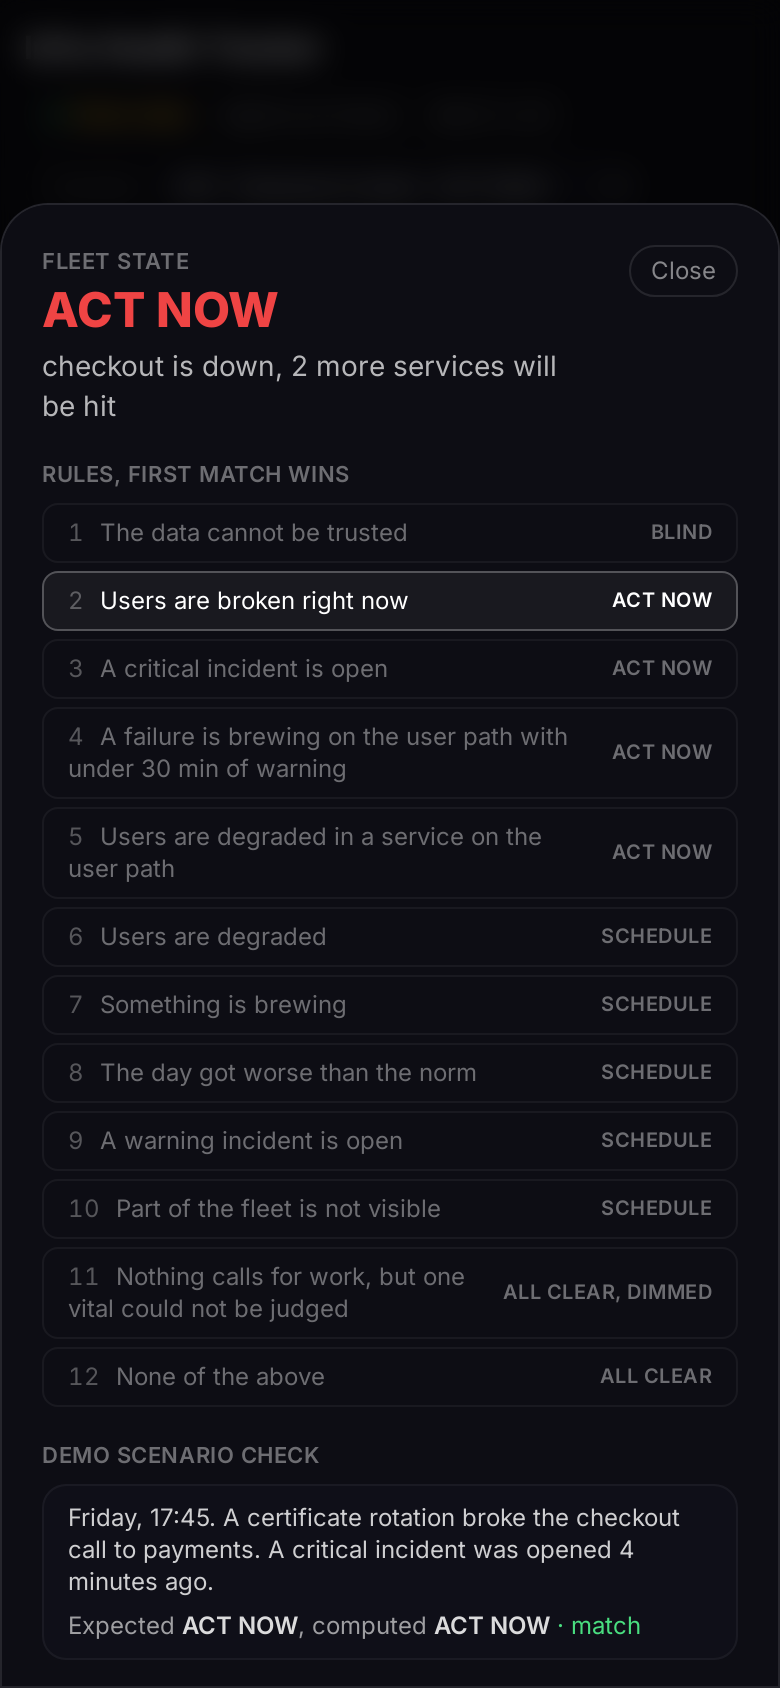
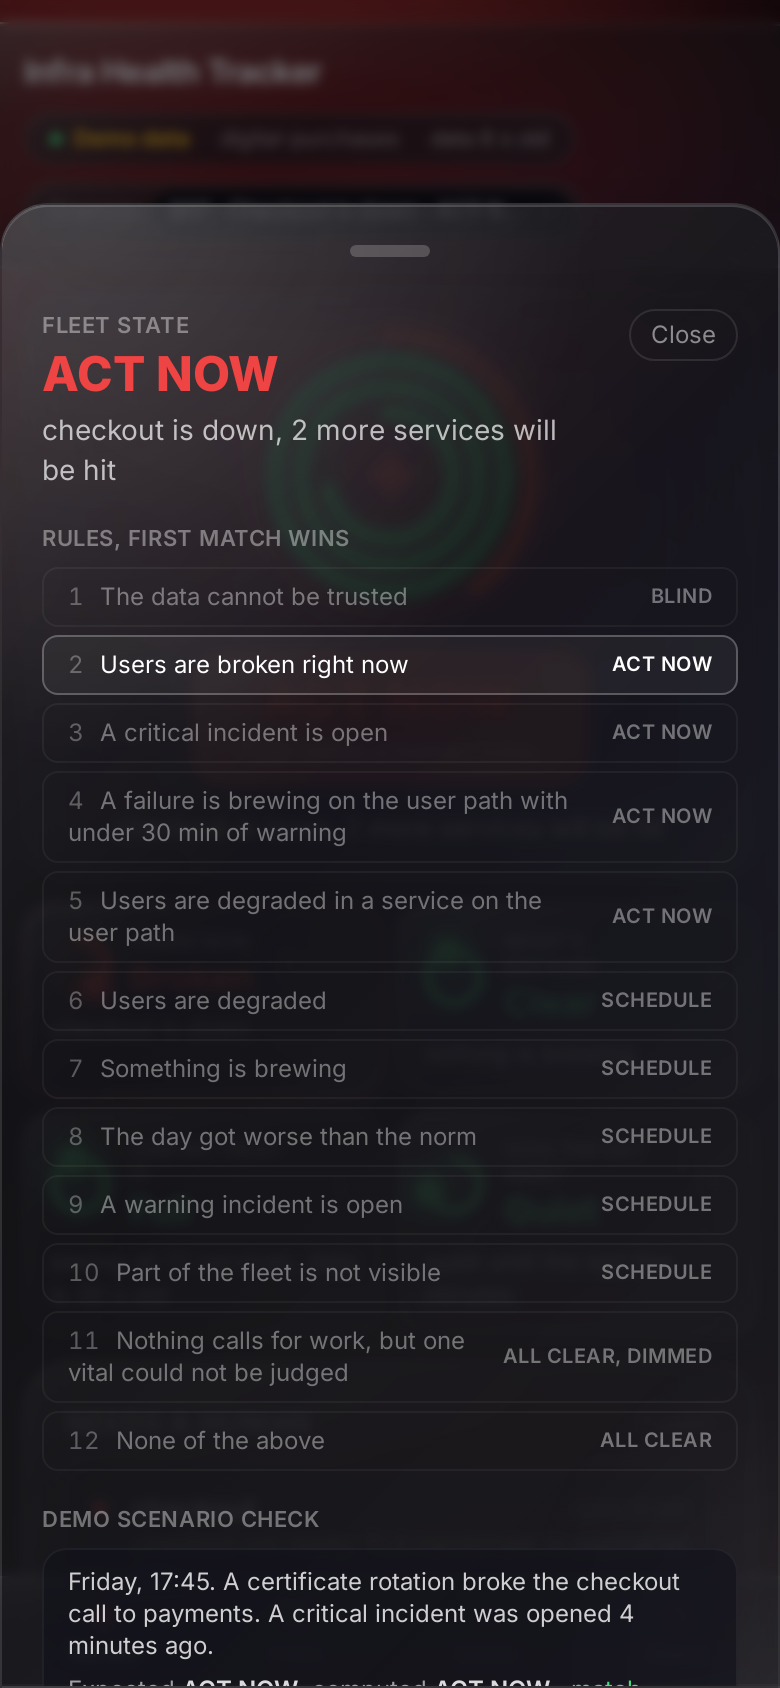
Docs and design exports for the journal and the glass material
Screenshot tool: wide or tall captures at device scale 2 crash headless
Chrome's software renderer under backdrop blur, so those drop to scale 1 and
every capture gets a forced timeout.

diff --git a/README.md b/README.md
@@ -47,7 +47,7 @@ Switch scenarios with the list in the header or with a URL parameter. The drill-
 /?scenario=s09_precursor_imminent&drill=forecast
 ```
 
-Values of `drill`: `users`, `forecast`, `trust`, `day`, `verdict`. PNG exports of all eleven scenarios and five drill-ins are in [design/](design/).
+Values of `drill`: `users`, `forecast`, `trust`, `day`, `verdict`. Each sheet ends with "What changed": in live mode the recorded transitions of that indicator (`/api/live/journal` has the whole list), in demo mode a timeline read off the scenario. PNG exports of all eleven scenarios and five drill-ins are in [design/](design/).
 
 After a merge into `main` the same prototype is built for GitHub Pages by [pages.yml](.github/workflows/pages.yml). There is no backend there, so the screen models are exported to static JSON by the same engine, and the frontend reads them instead of the API.
 
@@ -99,6 +99,7 @@ Triage API ───────┘   reads raw     rules and     words, caption
 - **engine.py** decides. It takes the normalised Bundle and returns the states of the four indicators, the decision, the rule that fired, and every fact the wording needs. An indicator that cannot be measured is "unknown", never green.
 - **presentation.py** turns the decision into human language: the word, the reason line, tile captions, ring fill, drill-in content, the queue. It holds no thresholds and never re-derives a decision.
 - **schemas.py** is the response contract. FastAPI validates every response against it, and the frontend types in `frontend/src/api.gen.ts` are generated from the OpenAPI document with `npm run gen:types`. CI fails when the generated files lag behind the code.
+- **journal.py** remembers the previous picture and writes an event whenever the word, an indicator or the incident queue changes, with the reason line of that moment. A watcher thread observes the live source every 20 s even with no page open, and the journal lives on a volume. Every drill-in shows "What changed" for its indicator; the verdict sheet shows all of it. Demo scenarios get a timeline read off their own timestamps instead.
 - **frontend** computes nothing and knows no threshold. Raw values appear only in the drill-in.
 - **live.py** assembles the same five blocks from a real Triage core. Live mode is switched on with `TRIAGE_BASE_URL`, `TRIAGE_TOKEN` and `TRIAGE_TENANT`, after which "Live data" appears in the scenario list. Requests to the core run in parallel, the answer is cached for 20 seconds, and the core's error text is never passed to the client. Without access to the organizers' core this path has not been run on live data.
 - **Evidence links.** In live mode, a drill-in can show a quiet "Verify in" row linking out to whatever real log/trace/metrics tool watches the fleet — set `LOGS_URL_TEMPLATE`, `TRACES_URL_TEMPLATE` and/or `METRICS_URL_TEMPLATE`, each with `{tenant}`, `{cluster}` and `{service}` placeholders the backend fills in, e.g. `LOGS_URL_TEMPLATE=https://logs.example.com/explore?tenant={tenant}&service={service}`. Unset by default, and never shown for a demo scenario: a mock has no real tool behind it, and this is an escape hatch for a human who wants to check, never part of the verdict itself.
@@ -144,7 +145,7 @@ Kubernetes deployment is described in [k8s/](k8s/); images are built by [images.
 | A state that means "all good" exists | ALL CLEAR in S01, S02, S06, S10; dimmed in S11 | design/phone_s01_calm.png |
 | No framework names or raw values on the main screen | errPct, PSI, p99, blastRadius only in the drill-in; a test checks it | design/drill_users_s07.png |
 | USE, RED, SIG became a state, not menu sections | yes | design_rationale.md |
-| Main screen plus one level deep | a tile, a ring or the word opens the drill-in | design/drill_*.png |
+| Main screen plus one level deep | a tile, a ring or the word opens the drill-in, with what changed and why | design/drill_*.png |
 | Phone and watch | five indicators and the queue without scrolling at 390×844; three watch faces | design/phone_*.png |
 | At least 8 scenarios with input values and a decision | 11 scenarios, 181 tests | scenarios.md, tests/ |
 | Mock data for each scenario, with instructions | deterministic, with a check | mock_data/ |

diff --git a/scenarios.md b/scenarios.md
@@ -354,6 +354,8 @@ Indicator 5 says Quiet, and that is honest: until 17:41 the day really was quiet
 
 **Coverage.** Each of the three decisions occurs at least twice. Each of indicators 2–5 is the deciding one at least once. Indicator 1 never decides on its own, it only rolls up, and that is correct.
 
+**What changed, and why.** Every drill-in ends with a journal. In live mode the backend records each transition of the word, of an indicator, or of the incident queue, with the reason line of that moment; running the EVE stand-in through an outage and back produced this sequence: ALL CLEAR → ACT NOW "nginx is down", Incident opened: app, Incident opened: nginx, Users now: Broken → Fine, ACT NOW → ALL CLEAR, Incident closed: app, Incident closed: nginx. A demo scenario is one frozen moment, so its journal is read off its own timestamps.
+
 **How to reproduce.** Each scenario is a file in `mock_data/`. The rules of `metrics_spec.md` live in `backend/engine.py`; `mock_data/evaluate.py` runs them over every scenario and compares the result with the expected one, and `tests/` does the same plus both sides of every threshold. The data run caught two errors that the paper run missed (S03 and S07), so the table above reflects the state after both runs.
 
 **What changed in `metrics_spec.md` after the run.**

diff --git a/design/README.md b/design/README.md
@@ -35,12 +35,17 @@ The drill-in is where raw values are allowed: error rates, stall percentages, p9
 | What's brewing: pattern steps and the agent's track record | [drill_forecast_s09.png](drill_forecast_s09.png) |
 | Can we trust it: agent link, coverage, silent services | [drill_trust_s08.png](drill_trust_s08.png) |
 | How the day went: 24 h of failing requests, what the agent handled | [drill_day_s03.png](drill_day_s03.png) |
+| The journal: what changed and why, on the verdict sheet of a scenario with history | [drill_journal_s02.png](drill_journal_s02.png) |
 
 ## Live mode on a compose application
 
 The same screen fed by the compose shim instead of a mock file, with a stand-in for EVE Online Tools on the shared network.
 
 [live_eve_healthy.png](live_eve_healthy.png) · [live_eve_down.png](live_eve_down.png)
+
+## Material
+
+Panels are liquid glass: a translucent, saturating blur with a specular rim brightest at the top left and an inner highlight along the top edge. Behind the page three slow pools of colour follow the verdict, so an outage tints the whole room red before a word is read, and a quiet fleet sits on green. Browsers without `backdrop-filter` get the solid panel back.
 
 ## Reading the screen
 

diff --git a/integrations/eve-tools/README.md b/integrations/eve-tools/README.md
@@ -82,6 +82,7 @@ EVE="docker compose"                                                  # in the E
 | 9 | `$TR restart collector` | "h of history" in the reason line keeps growing instead of resetting | history persists on the volume |
 | 10 | `$TR stop collector` | within 30 s the tracker shows an error banner, not a green screen | a dead collector is never read as calm |
 | 11 | from another machine: `curl -i http://<server>/internal/vitals` | `404` | the endpoint is not public |
+| 11a | open the verdict sheet ("Why this word") after steps 4 to 6 | "What changed" lists every transition with its time and reason: ALL CLEAR → ACT NOW "nginx is down", the incidents opening, the recovery | the decision journal |
 | 12 | leave it running for 19 h | How the day went turns from — to **Quiet**, and ALL CLEAR is no longer dimmed | the day indicator needs a day |
 
 Step 7 needs a CPU limit because pressure is time spent waiting for a resource: on an idle multi-core host four busy loops wait for nothing, and PSI stays at zero however hot the CPU runs. That is the point the hackathon brief makes about PSI against utilisation.
